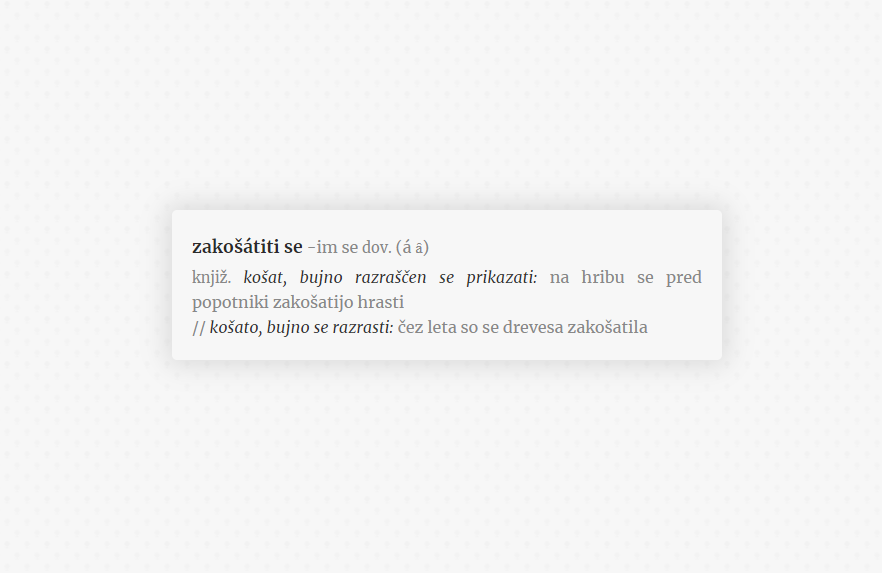
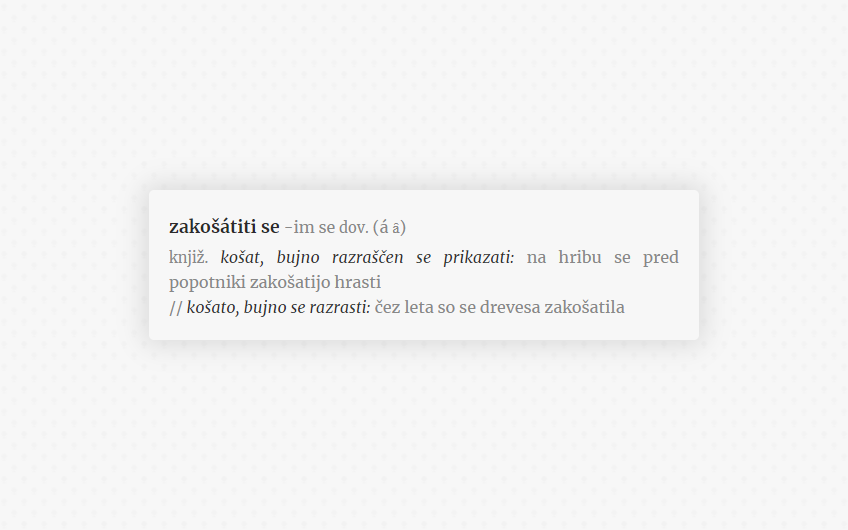
added media queries

Changed region(s): [[0.184, 0.3925, 0.7972, 0.6038]]

diff --git a/beseda_dneva/index.html b/beseda_dneva/index.html
@@ -3,6 +3,7 @@
   <head>
     <meta charset="UTF-8" />
     <meta name="viewport" content="width=device-width, initial-scale=1.0" />
+    
     <meta property="og:title" content="Beseda dneva" />
     <meta property="og:site_name" content="Beseda dneva" />
     <meta
@@ -15,6 +16,7 @@
     />
     <meta property="og:type" content="website" />
     <meta property="og:image" content="img/screenshot.png" />
+
     <link
       rel="apple-touch-icon"
       sizes="180x180"
@@ -39,11 +41,13 @@
       color="#5bbad5"
     />
     <link rel="shortcut icon" href="img/icons/favicon.ico" />
+    
     <meta name="apple-mobile-web-app-title" content="Beseda dneva" />
     <meta name="application-name" content="Beseda dneva" />
     <meta name="msapplication-TileColor" content="#da532c" />
     <meta name="msapplication-config" content="./browserconfig.xml" />
     <meta name="theme-color" content="#ffffff" />
+
     <title>Beseda dneva</title>
     <link rel="stylesheet" href="css/main.css" />
     <script type="text/javascript" src="js/SITE.js" defer></script>

diff --git a/beseda_dneva/css/main.css b/beseda_dneva/css/main.css
@@ -156,9 +156,9 @@ body {
   margin: 8px 16px;
   padding: 4px 8px;
   border-radius: 30px;
-  -webkit-box-shadow: 0 0 10px rgba(128, 128, 128, 0.445);
-          box-shadow: 0 0 10px rgba(128, 128, 128, 0.445);
-  background-color: rgba(250, 250, 250, 0.8);
+  -webkit-box-shadow: 0 0 15px 3px #80808030;
+          box-shadow: 0 0 15px 3px #80808030;
+  background-color: #fafafa;
 }
 
 .info-bar .bubble.open .copyright {
@@ -205,4 +205,29 @@ body {
 .info-bar .bubble a {
   text-decoration: none;
   color: #a17e31;
+}
+
+@media (max-width: 750px) {
+  .main {
+    width: 80%;
+    margin: auto;
+  }
+  .contents {
+    font-size: 14px;
+  }
+}
+
+@media (max-width: 530px) {
+  .contents {
+    font-size: 13px;
+  }
+}
+
+@media (max-width: 370px) {
+  .main {
+    width: -webkit-fit-content;
+    width: -moz-fit-content;
+    width: fit-content;
+    padding: 20px;
+  }
 }
